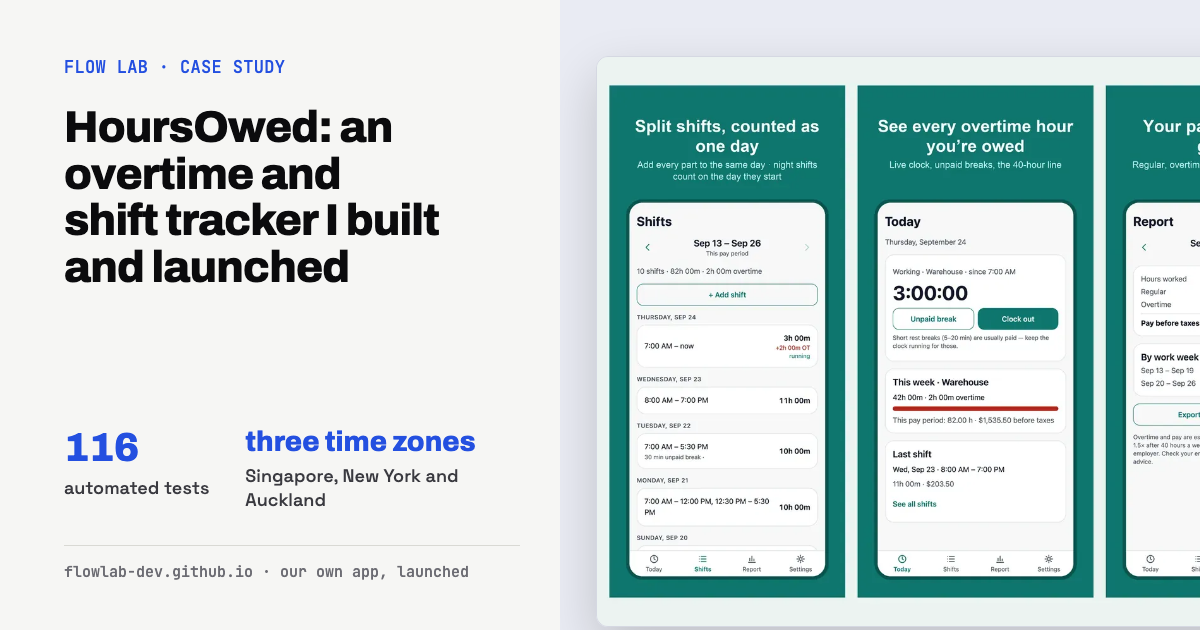
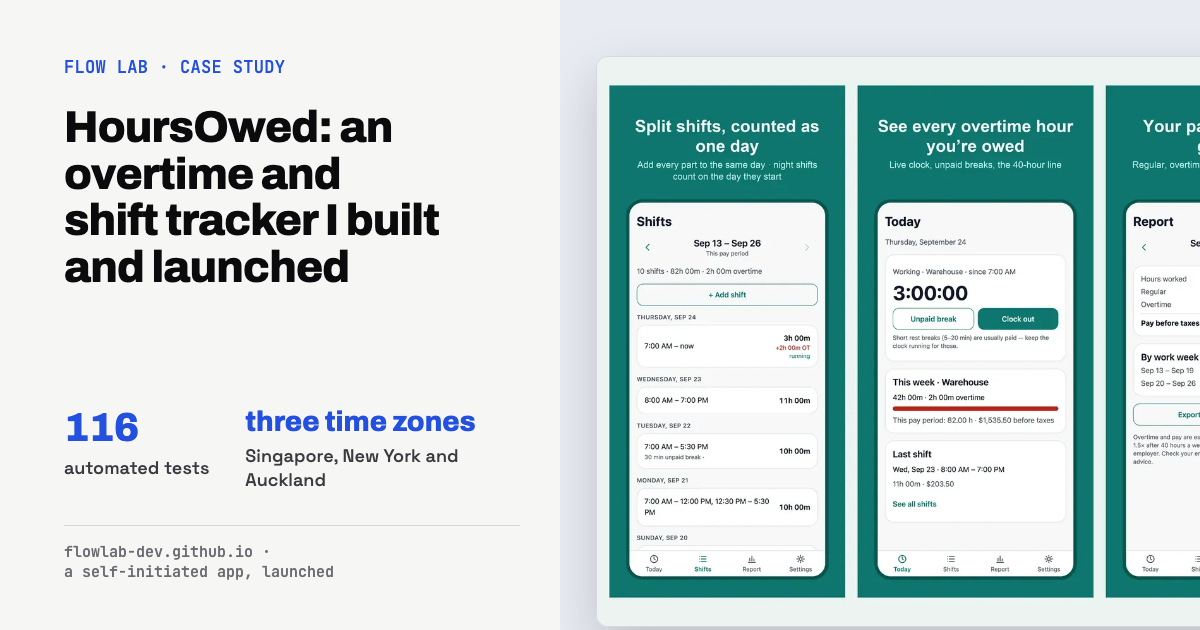
В-89 строки 10-11: promo-game подзаголовок и META, og hoursowed self-initiated

Changed region(s): [[0.0308, 0.6333, 0.4008, 0.8143], [0.0617, 0.8444, 0.4008, 0.9349]]

diff --git a/ru/work/promo-game/index.html b/ru/work/promo-game/index.html
@@ -9,17 +9,17 @@
 <meta content="Flow Lab" property="og:site_name"/>
 <meta content="https://flowlab-dev.github.io/ru/work/promo-game/" property="og:url"/>
 <meta content="Промоигра на одну минуту для бренда пекарни - Flow Lab" property="og:title"/>
-<meta content="Короткая игра с вашими товарами открывается по ссылке из рекламы или поста. На телефоне в нее играют одним большим пальцем, без установки и инструкций. В демо за 60 секунд до закрытия пекарни нужно собрать заказ покупателя. Демо проверяют 49 автоматических тестов. Такая игра для вашего бренда: от $400, срок от 1 недели." property="og:description"/>
+<meta content="Короткая игра с вашими товарами открывается по ссылке из рекламы или поста. На телефоне в нее играют одним большим пальцем, без установки и инструкций. В демо за 60 секунд до закрытия пекарни нужно собрать заказ покупателя. Демо проверяют 49 автоматических тестов. Простая игра с одним уровнем: от $400, срок от 1 недели. Игра с 3 уровнями и множителем за серию, как в демо: от $900." property="og:description"/>
 <meta content="https://flowlab-dev.github.io/img/og/promo-game.png" property="og:image"/>
 <meta content="1200" property="og:image:width"/>
 <meta content="630" property="og:image:height"/>
 <meta content="Промоигра на одну минуту для бренда пекарни: 60 секунд на раунд, 70 КБ весит вся игра, одна страница" property="og:image:alt"/>
 <meta content="summary_large_image" name="twitter:card"/>
 <meta content="Промоигра на одну минуту для бренда пекарни - Flow Lab" name="twitter:title"/>
-<meta content="Короткая игра с вашими товарами открывается по ссылке из рекламы или поста. На телефоне в нее играют одним большим пальцем, без установки и инструкций. В демо за 60 секунд до закрытия пекарни нужно собрать заказ покупателя. Демо проверяют 49 автоматических тестов. Такая игра для вашего бренда: от $400, срок от 1 недели." name="twitter:description"/>
+<meta content="Короткая игра с вашими товарами открывается по ссылке из рекламы или поста. На телефоне в нее играют одним большим пальцем, без установки и инструкций. В демо за 60 секунд до закрытия пекарни нужно собрать заказ покупателя. Демо проверяют 49 автоматических тестов. Простая игра с одним уровнем: от $400, срок от 1 недели. Игра с 3 уровнями и множителем за серию, как в демо: от $900." name="twitter:description"/>
 <meta content="https://flowlab-dev.github.io/img/og/promo-game.png" name="twitter:image"/>
[1 lines of base64/hex data omitted]
-<meta content="Короткая игра с вашими товарами открывается по ссылке из рекламы или поста. На телефоне в нее играют одним большим пальцем, без установки и инструкций. В демо за 60 секунд до закрытия пекарни нужно собрать заказ покупателя. Демо проверяют 49 автоматических тестов. Такая игра для вашего бренда: от $400, срок от 1 недели." name="description"/>
+<meta content="Короткая игра с вашими товарами открывается по ссылке из рекламы или поста. На телефоне в нее играют одним большим пальцем, без установки и инструкций. В демо за 60 секунд до закрытия пекарни нужно собрать заказ покупателя. Демо проверяют 49 автоматических тестов. Простая игра с одним уровнем: от $400, срок от 1 недели. Игра с 3 уровнями и множителем за серию, как в демо: от $900." name="description"/>
 <meta content="light dark" name="color-scheme"/>
 
 
@@ -258,7 +258,7 @@ h1{letter-spacing:-.04em}
 <header class="case-hero"><div class="wrap">
 <a class="back" href="/ru/"><svg aria-hidden="true" class="i" viewbox="0 0 24 24"><path d="M5 12h14M13 6l6 6-6 6"></path></svg>Flow Lab</a>
 <h1>Промоигра на одну минуту для бренда пекарни</h1>
-<p class="lede">Короткая игра с вашими товарами открывается по ссылке из рекламы или поста. На телефоне в нее играют одним большим пальцем, без установки и инструкций. В демо за 60 секунд до закрытия пекарни нужно собрать заказ покупателя. Демо проверяют 49 автоматических тестов. Такая игра для вашего бренда: от $400, срок от 1 недели.</p>
+<p class="lede">Короткая игра с вашими товарами открывается по ссылке из рекламы или поста. На телефоне в нее играют одним большим пальцем, без установки и инструкций. В демо за 60 секунд до закрытия пекарни нужно собрать заказ покупателя. Демо проверяют 49 автоматических тестов. Простая игра с одним уровнем: от $400, срок от 1 недели. Игра с 3 уровнями и множителем за серию, как в демо: от $900.</p>
 <p class="note"><b>Демо я сделала сама, это не заказ клиента.</b> Пекарня Cedarline Bakehouse вымышленная. Все цифры о работе демо взяты из самого демо: его можно открыть и проверить.</p>
 <div class="cta"><a class="btn solid" href="/demo/game/ru/">Открыть живое демо<svg aria-hidden="true" class="i" viewbox="0 0 24 24"><path d="M5 12h14M13 6l6 6-6 6"></path></svg></a></div>
 <div class="shot"><div class="frame"><div class="bar"><i></i><i></i><i></i></div><picture><source height="1688" media="(max-width: 640px)" srcset="/img/work/promo-game-1m.webp" width="780"><img alt="Снимок экрана: промоигра на одну минуту для бренда пекарни" height="800" loading="eager" src="/img/work/promo-game-1.webp" width="1280"/></source></picture></div></div>

diff --git a/work/promo-game/index.html b/work/promo-game/index.html
@@ -9,17 +9,17 @@
 <meta content="Flow Lab" property="og:site_name"/>
 <meta content="https://flowlab-dev.github.io/work/promo-game/" property="og:url"/>
 <meta content="A one-minute promo game for a bakery brand - Flow Lab" property="og:title"/>
-<meta content="A short game with your products opens from an ad or a post. People play it on a phone with one thumb. There is nothing to install and nothing to explain. In the demo, you have 60 seconds to pack a customer's order before the bakery closes. 49 automated tests check the demo. A game like this for your brand starts at $400 and takes at least a week." property="og:description"/>
+<meta content="A short game with your products opens from an ad or a post. People play it on a phone with one thumb. There is nothing to install and nothing to explain. In the demo, you have 60 seconds to pack a customer's order before the bakery closes. 49 automated tests check the demo. A simple one-level game starts at $400 and takes at least a week. A game with 3 levels and streaks, like the demo, starts at $900." property="og:description"/>
 <meta content="https://flowlab-dev.github.io/img/og/promo-game.png" property="og:image"/>
 <meta content="1200" property="og:image:width"/>
 <meta content="630" property="og:image:height"/>
 <meta content="A one-minute promo game for a bakery brand: 60 seconds per round, 70 KB the whole game, one page" property="og:image:alt"/>
 <meta content="summary_large_image" name="twitter:card"/>
 <meta content="A one-minute promo game for a bakery brand - Flow Lab" name="twitter:title"/>
-<meta content="A short game with your products opens from an ad or a post. People play it on a phone with one thumb. There is nothing to install and nothing to explain. In the demo, you have 60 seconds to pack a customer's order before the bakery closes. 49 automated tests check the demo. A game like this for your brand starts at $400 and takes at least a week." name="twitter:description"/>
+<meta content="A short game with your products opens from an ad or a post. People play it on a phone with one thumb. There is nothing to install and nothing to explain. In the demo, you have 60 seconds to pack a customer's order before the bakery closes. 49 automated tests check the demo. A simple one-level game starts at $400 and takes at least a week. A game with 3 levels and streaks, like the demo, starts at $900." name="twitter:description"/>
 <meta content="https://flowlab-dev.github.io/img/og/promo-game.png" name="twitter:image"/>
[1 lines of base64/hex data omitted]
-<meta content="A short game with your products opens from an ad or a post. People play it on a phone with one thumb. There is nothing to install and nothing to explain. In the demo, you have 60 seconds to pack a customer's order before the bakery closes. 49 automated tests check the demo. A game like this for your brand starts at $400 and takes at least a week." name="description"/>
+<meta content="A short game with your products opens from an ad or a post. People play it on a phone with one thumb. There is nothing to install and nothing to explain. In the demo, you have 60 seconds to pack a customer's order before the bakery closes. 49 automated tests check the demo. A simple one-level game starts at $400 and takes at least a week. A game with 3 levels and streaks, like the demo, starts at $900." name="description"/>
 <meta content="light dark" name="color-scheme"/>
 
 
@@ -263,7 +263,7 @@ h1{letter-spacing:-.04em}
 <header class="case-hero"><div class="wrap">
 <a class="back" href="/"><svg aria-hidden="true" class="i" viewbox="0 0 24 24"><path d="M5 12h14M13 6l6 6-6 6"></path></svg>Flow Lab</a>
 <h1>A one-minute promo game for a bakery brand</h1>
-<p class="lede">A short game with your products opens from an ad or a post. People play it on a phone with one thumb. There is nothing to install and nothing to explain. In the demo, you have 60 seconds to pack a customer's order before the bakery closes. 49 automated tests check the demo. A game like this for your brand starts at $400 and takes at least a week.</p>
+<p class="lede">A short game with your products opens from an ad or a post. People play it on a phone with one thumb. There is nothing to install and nothing to explain. In the demo, you have 60 seconds to pack a customer's order before the bakery closes. 49 automated tests check the demo. A simple one-level game starts at $400 and takes at least a week. A game with 3 levels and streaks, like the demo, starts at $900.</p>
 <p class="note"><b>This demo is self-initiated, not client work.</b> Cedarline Bakehouse is an invented bakery. Every number about how the demo works comes from the demo itself, which you can open and check.</p>
 <div class="cta"><a class="btn solid" href="https://flowlab-dev.github.io/demo/game/">Open the live demo<svg aria-hidden="true" class="i" viewbox="0 0 24 24"><path d="M5 12h14M13 6l6 6-6 6"></path></svg></a></div>
 <div class="shot"><div class="frame"><div class="bar"><i></i><i></i><i></i></div><picture><source height="1688" media="(max-width: 640px)" srcset="/img/work/promo-game-1m.webp" width="780"><img alt="Screenshot: A one-minute promo game for a bakery brand" height="800" loading="eager" src="/img/work/promo-game-1.webp" width="1280"/></source></picture></div></div>
